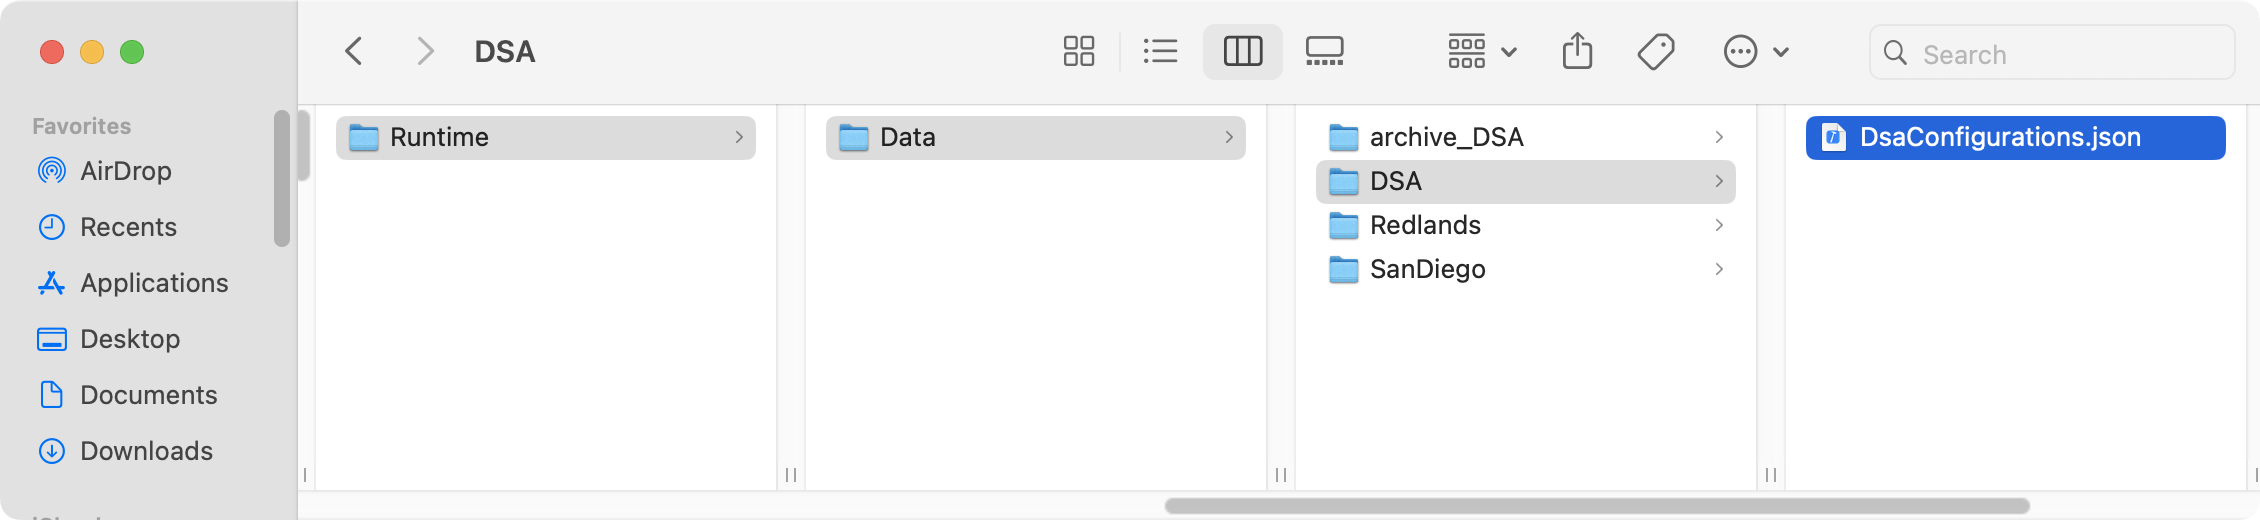
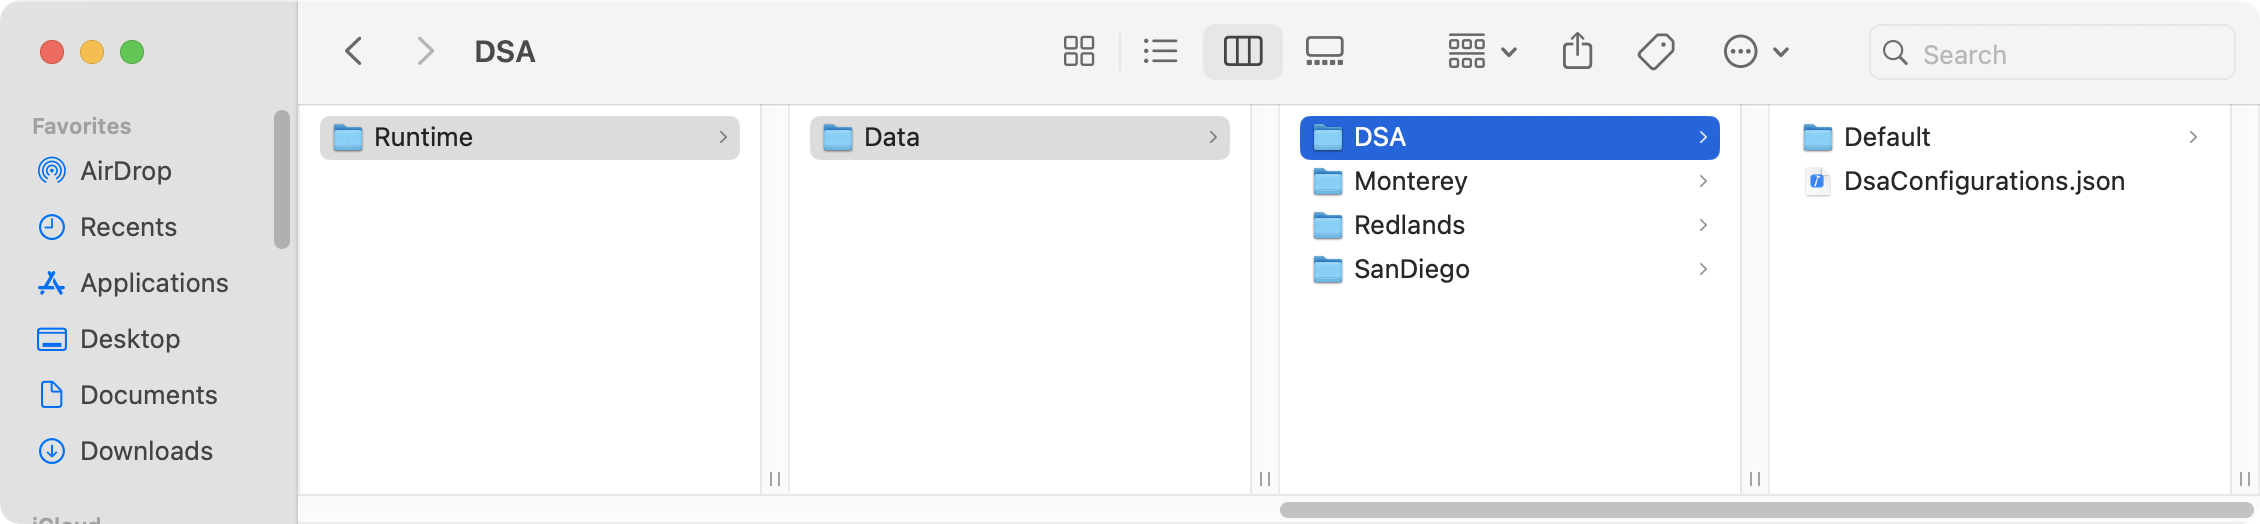
added message for android. updated an image that was out of sync with latest text

diff --git a/docs/DataManagement.md b/docs/DataManagement.md
@@ -2,7 +2,7 @@
 
 The DSA application has a base file structure at which the mapping and configuration data is expected to exist. Prior to the 2.0.0 release of DSA, this location was <%home%>/ArcGIS/Runtime/Data/DSA. At the 2.0.0 release, a new feature was introduced in order to give users the ability to manage multiple configurations for the application. For example, you may wish to use the Esri provided dataset. But you may also have data for a relevant geographic location that covers your area of operations. Prior to the introduction of 'Configurations' the user would need to shutdown the application and copy, move or strategically rename folders in order to load a new set of data and application settings. The Configuration feature adds a new folder level at the very bottom of the structure to allow users to host more than 1 set of DSA data at a time.
 
-The following dialog describes the migration process for MacOS. But the same steps should be followed for Windows, Linux or Android.
+The following dialog describes the migration process for MacOS. But the same steps should be followed for Windows and Linux. Although Android users are required to use [Android Studio](https://developer.android.com/studio) to manage the files for DSA, the process is the same. The location of the 'home' folder will be the root of the application(eg. /data/data/com.esri.arcgisruntime.opensourceapps.DSA_Handheld_Qt).
 
 > In our example, we have 3 sets of sample data for 3 different locations in California (Monterey, San Diego and Redlands). The 'DSA' folder in our setup is actually our data for the Monterey location. It has been given the special name 'DSA' which is the required by the application upon startup. We'll rename this folder to its proper name, 'Monterey' which will hide it from the app and allow DSA to create the new folder structure in place.
 
@@ -10,13 +10,13 @@ The following dialog describes the migration process for MacOS. But the same ste
 
 > Next we will launch the new version of DSA. When the app starts, we are asked if we would like to download the default configuration data from Esri. We are configuring our own data so we will click 'No' and close the application.
 
-![image](./images/dsa-data-management-migration-3.png)
+<img src="./images/dsa-data-management-migration-3.png" width=300/>
 
 > The startup process for DSA now looks for a file named 'DsaConfigurations.json' in the DSA folder. Since our old DSA folder was renamed, the application created a new 'DSA' folder along with the default version of the 'DsaConfigurations.json' file. There is also a folder called 'Default' where the sample data would be downloaded. We'll remove this folder since we will be using our own data here. Our folders now look like this:
 
 ![image](./images/dsa-data-management-migration-2.png)
 
-> We can now move our existing folders into the new DSA folder and rename the 'archive_DSA' folder to its actual location name, Monterey.
+> We can now move our existing folders into the new DSA folder.
 
 ![image](./images/dsa-data-management-migration-4.png)
 
